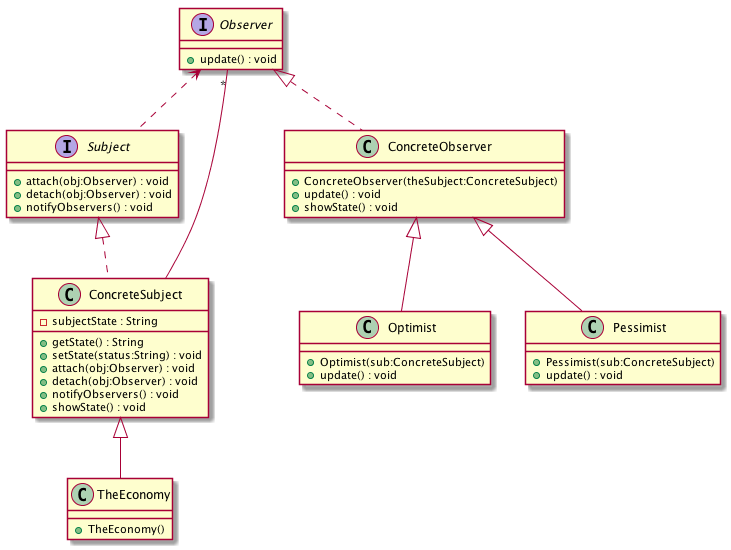
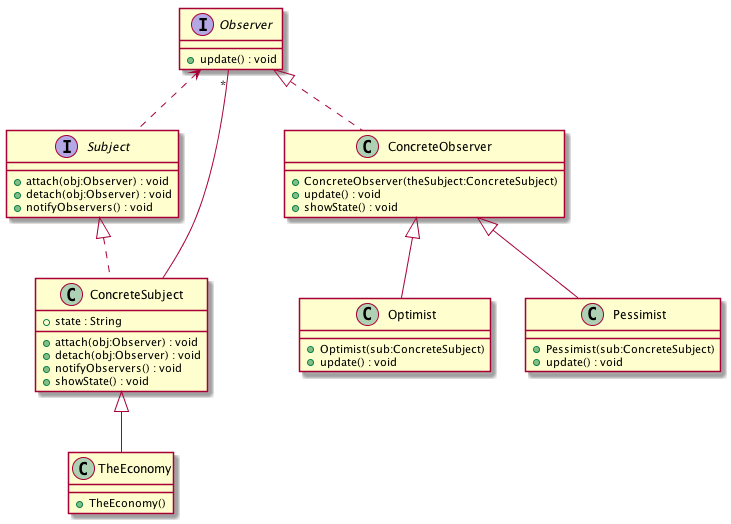
Support also Java Style Public Attributes

diff --git a/src/main/java/edu/sjsu/cmpe/yutao/UmlParser.java b/src/main/java/edu/sjsu/cmpe/yutao/UmlParser.java
@@ -18,10 +18,7 @@ import com.github.javaparser.ast.type.Type;
 import net.sourceforge.plantuml.SourceStringReader;
 
 import java.io.*;
-import java.util.HashMap;
-import java.util.LinkedList;
-import java.util.List;
-import java.util.Map;
+import java.util.*;
 
 /**
  * Created by yutao on 10/6/15.
@@ -36,6 +33,8 @@ public class UmlParser {
     private Map<String, UmlRelationship> relationshipMap = new HashMap<>();
     private StringBuilder classDiagramSB = new StringBuilder();
     private StringBuilder sequenceDiagramSB = new StringBuilder();
+
+    private Set<String> getterSetter;
 
     public UmlParser(String path, String filename) {
 
@@ -94,6 +93,7 @@ public class UmlParser {
 
     public void printClassOrInterface(ClassOrInterfaceDeclaration cid) {
         this.currentCID = cid;
+        getterSetter = new HashSet<>();
 
         // 1. member and method
         if (cid.isInterface()) {
@@ -217,7 +217,9 @@ public class UmlParser {
     public void printMethod(MethodDeclaration md) {
 
         //Public Methods (ignore private, package and protected scope)
-        if (!isPublic(md.getModifiers())) {
+        // ignore getter setter
+        if (!isPublic(md.getModifiers())
+                || getterSetter.contains(md.getName())) {
             return;
         }
         // class name -> variable names
@@ -395,11 +397,38 @@ public class UmlParser {
     }
 
     private void printPrimitiveType(FieldDeclaration fd) {
-        classDiagramSB.append(getModifier(fd.getModifiers()));
+        // Support also Java Style Public Attributes as "setters and getters"
+        String m = isGetSetAttr(fd) ? "+" : getModifier(fd.getModifiers());
+        classDiagramSB.append(m);
         classDiagramSB.append(" ");
         classDiagramSB.append(fd.getVariables().get(0).getId().getName());
         classDiagramSB.append(" : ").append(fd.getType());
         classDiagramSB.append("\n");
+    }
+
+    private boolean isGetSetAttr(FieldDeclaration fd) {
+        List<Node> childrenNodes = currentCID.getChildrenNodes();
+        String name = fd.getVariables().get(0).getId().getName();
+        name = name.substring(0, 1).toUpperCase() + name.substring(1);
+        boolean hasGet = false, hasSet = false;
+        String getter = "", setter = "";
+        for (Node node : childrenNodes) {
+            if (node instanceof MethodDeclaration) {
+                if (((MethodDeclaration) node).getName().equals("get" + name)) {
+                    hasGet = true;
+                    getter = ((MethodDeclaration) node).getName();
+                }
+                if (((MethodDeclaration) node).getName().equals("set" + name)) {
+                    hasSet = true;
+                    setter = ((MethodDeclaration) node).getName();
+                }
+            }
+        }
+        if (hasGet && hasSet) {
+            getterSetter.add(getter);
+            getterSetter.add(setter);
+        }
+        return hasGet && hasSet;
     }
 
     private void parseFiled(FieldDeclaration fd) {

diff --git a/code/uml-parser-test-4/ConcreteSubject.java b/code/uml-parser-test-4/ConcreteSubject.java
@@ -3,16 +3,16 @@ import java.util.*;
 
 public class ConcreteSubject implements Subject {
  
-	private String subjectState;
+	private String state;
 	 
 	private Collection<Observer> observers = new ArrayList<Observer>() ;
 	 
 	public String getState() {
-		return subjectState ;
+		return state ;
 	}
 	 
 	public void setState(String status) {
-	    subjectState = status ;
+		state = status ;
         notifyObservers();
 	}
 

diff --git a/src/main/java/edu/sjsu/cmpe/yutao/Main.java b/src/main/java/edu/sjsu/cmpe/yutao/Main.java
@@ -6,7 +6,7 @@ package edu.sjsu.cmpe.yutao;
 public class Main {
     public static void main(String[] args) {
         args = new String[2];
-        int suffix = 5;
+        int suffix = 4;
         args[0] = "code/uml-parser-test-" + suffix;
         args[1] = "output" + suffix + ".png";
         if (args == null || args.length < 2) {
